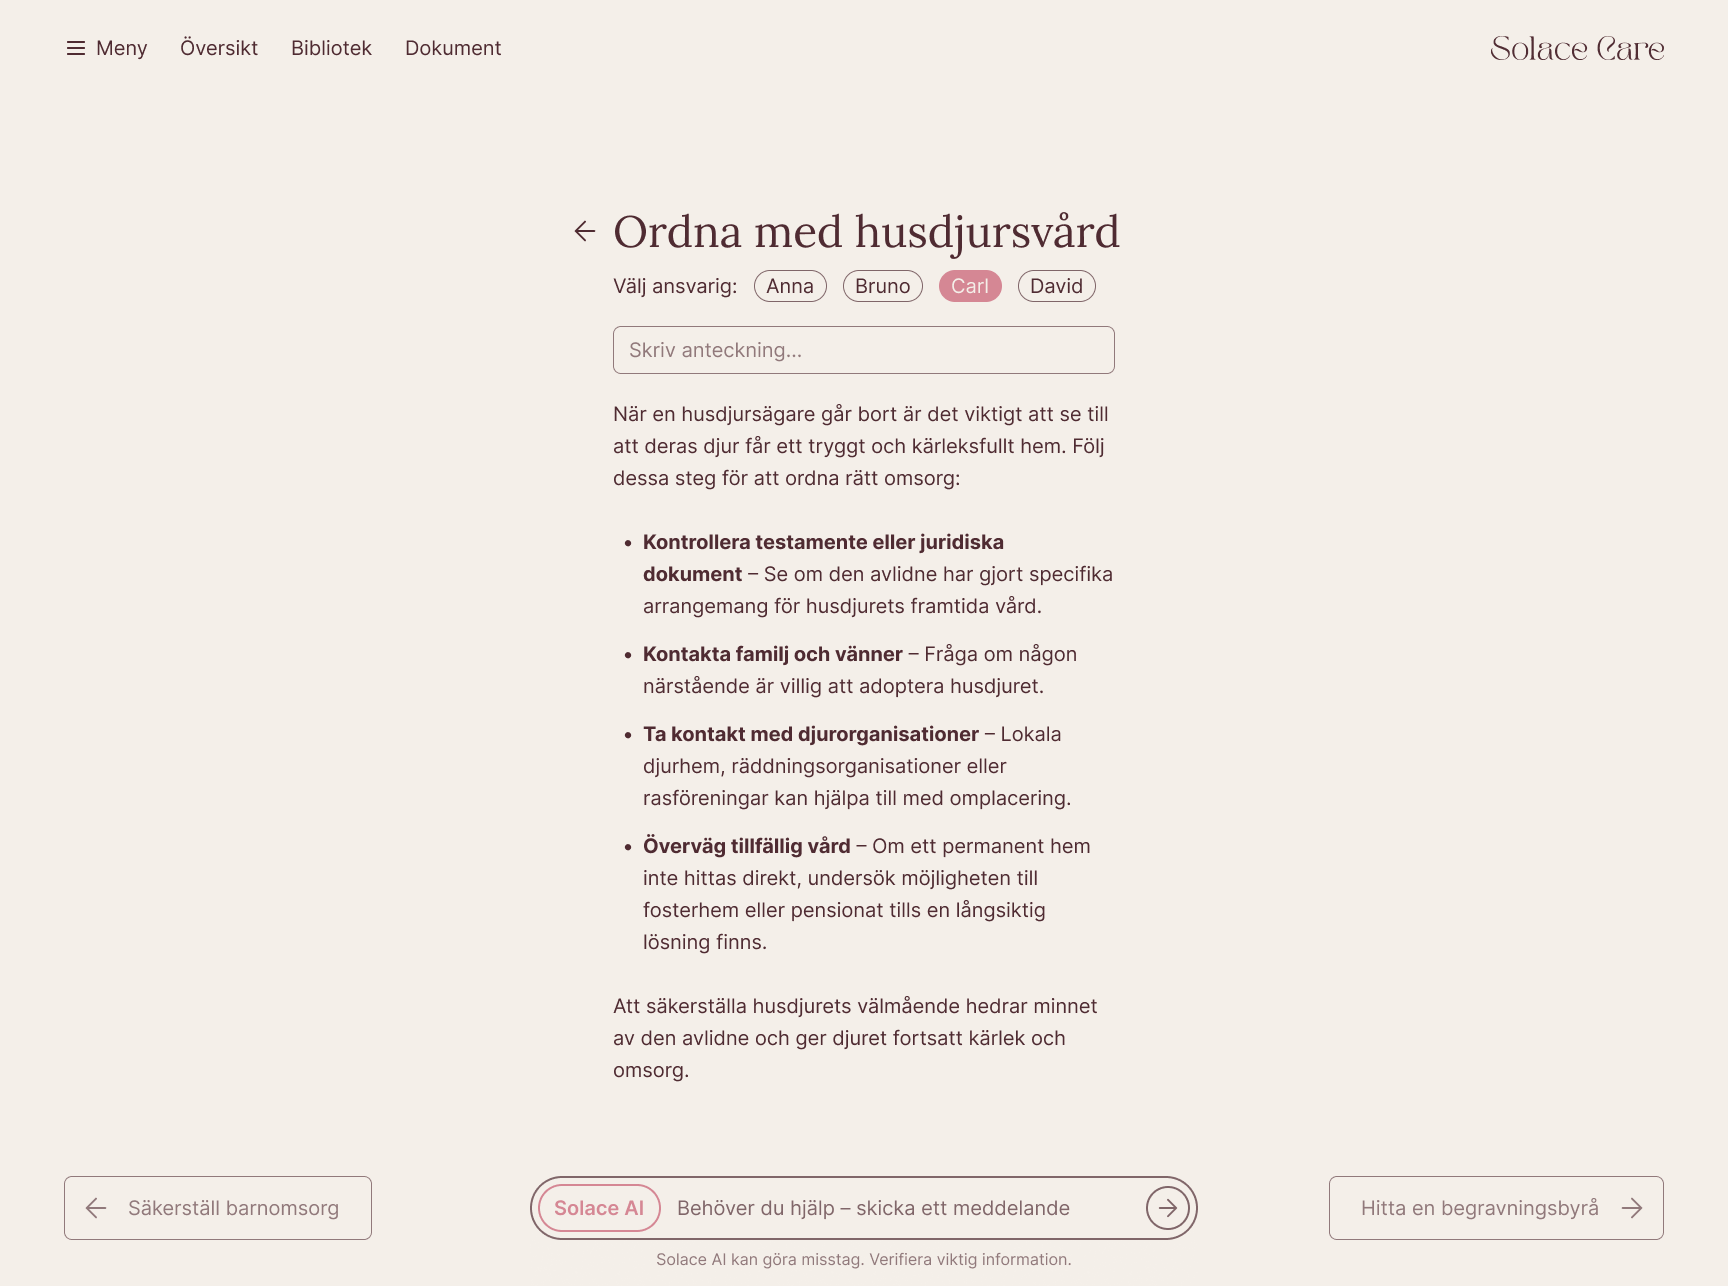
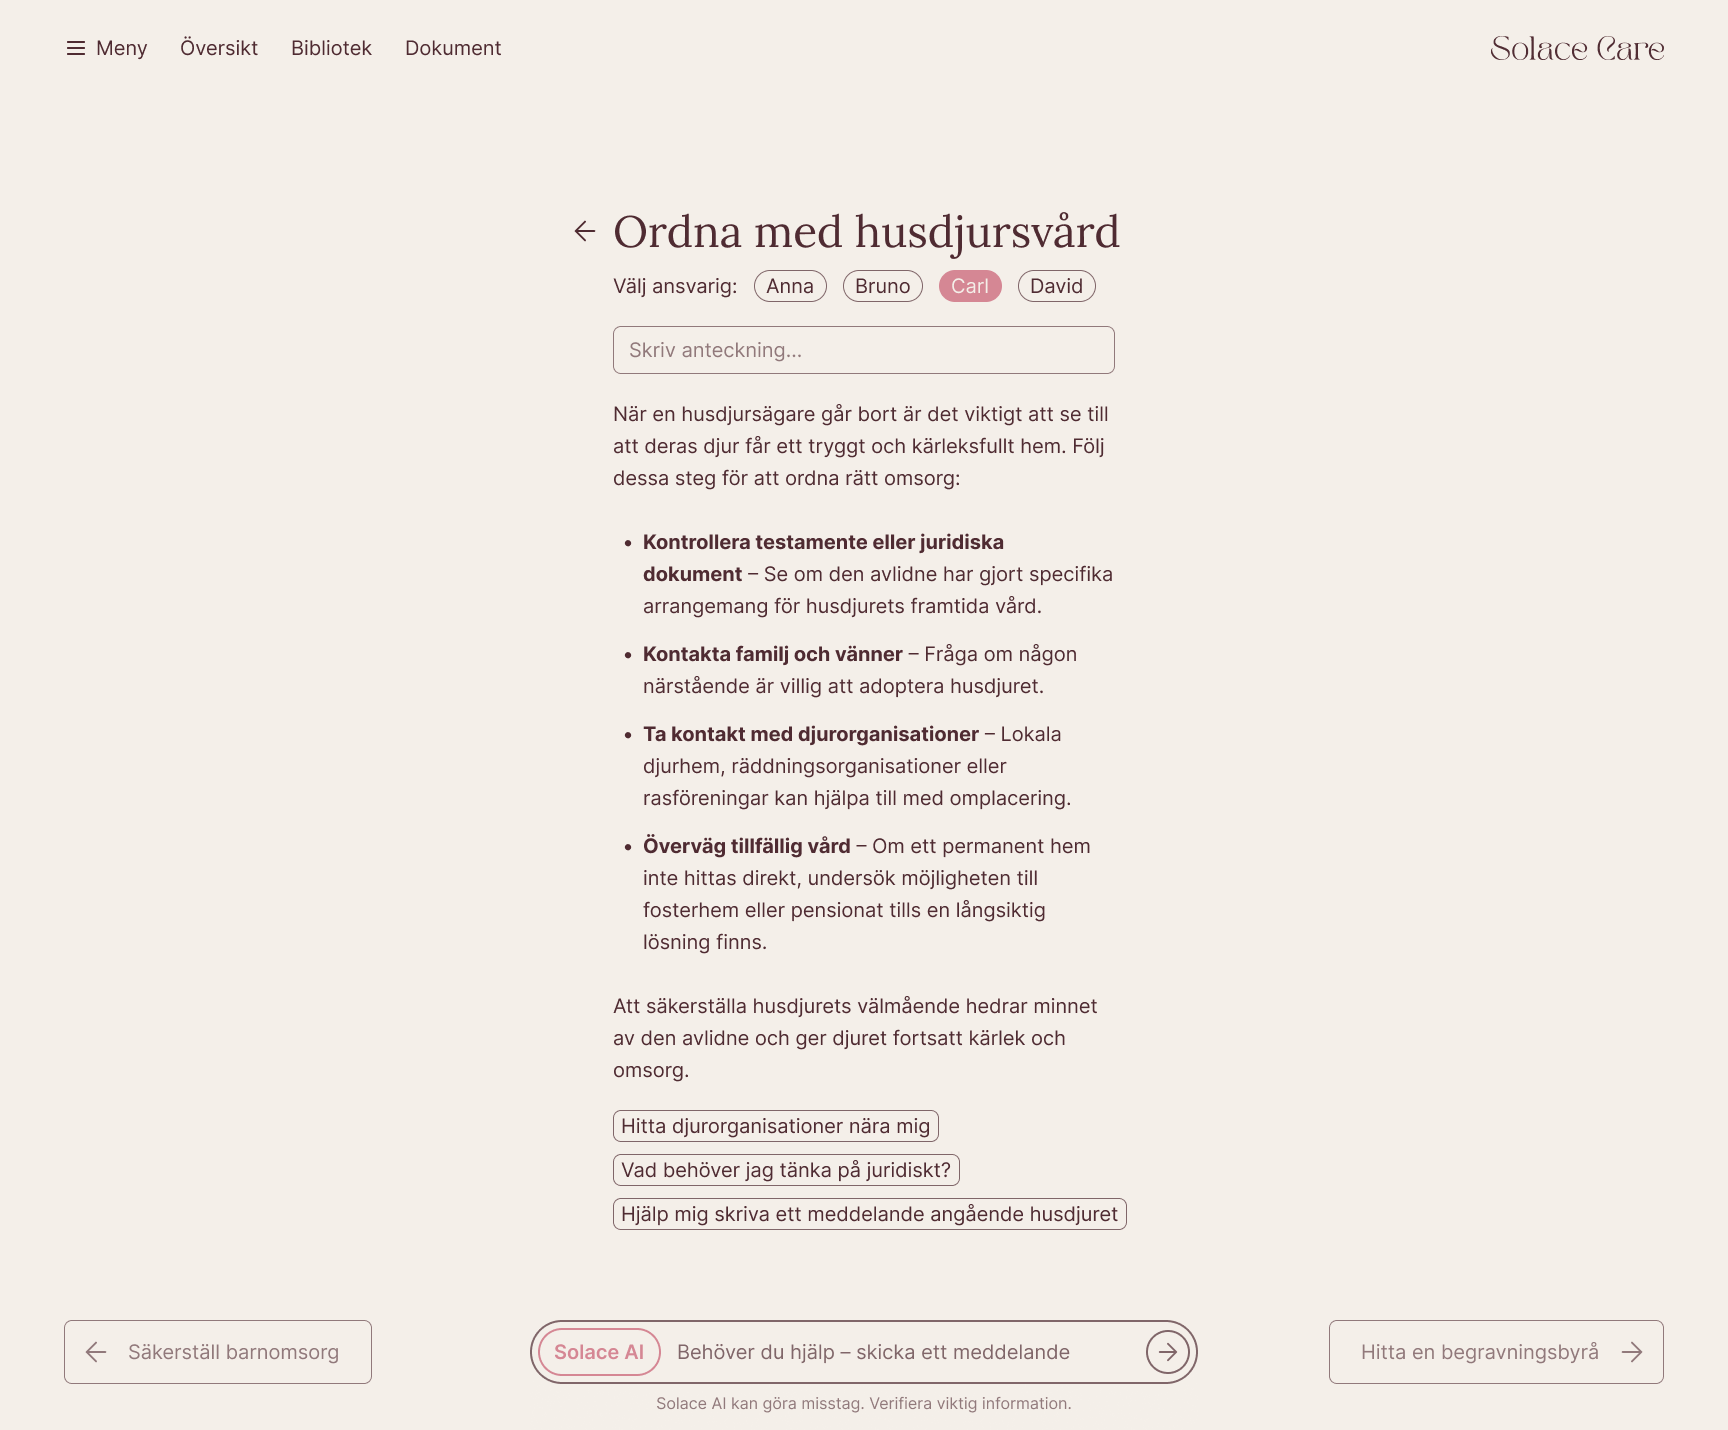
Solace care content update

diff --git a/solace-care.html b/solace-care.html
@@ -67,22 +67,30 @@
 			<p>
 				Solace Care is a planning and coordination tool for people who
 				have recently lost someone. This redesign focuses on reducing
-				mental effort, integrating AI more deeply, and making shared
-				planning easier.
+				cognitive load, integrating AI more deeply into the task flow,
+				and making shared planning easier.
 			</p>
 
-			<div class="image-frame">
-				<img
-					src="images/solace-care/original-solace-care-checklist.png"
-					alt="Original Solace Care checklist showing task list grouped by the time period 'Under de första veckorna' and category filters"
-					loading="lazy"
-					width="2560"
-					height="1492" />
-			</div>
-			<small class="image-description">
-				Original checklist layout with time-based task grouping and
-				category filters.
-			</small>
+			<h2>Opportunities for improvement</h2>
+			<ul>
+				<li>
+					The original interface tries to do too much at once. The home
+					page presents task cards, AI entry points, and support content
+					side by side, forcing users to orient themselves before they can
+					act. For someone in the early days of grief, this kind of
+					decision-making is unnecessarily taxing.
+				</li>
+				<li>
+					The AI assistant — a central part of the platform's value — lives
+					on its own separate page, disconnected from the tasks it's meant
+					to help with.
+
+				</li>
+				<li>
+					Collaboration is limited: co-planners have no
+					way to communicate on the platform.
+				</li>
+			</ul>
 
 			<div class="image-frame">
 				<img
@@ -93,22 +101,37 @@
 					height="1492" />
 			</div>
 			<small class="image-description">
-				Original Solace Care home page with multiple entry points for
-				support and AI assistance.
+				The original home page with competing entry points for tasks,
+				support content, and AI assistance.
 			</small>
 
-			<h2>Opportunities for improvement</h2>
-			<ul>
-				<li>
-					The original interface presents too many competing elements
-					at once, increasing cognitive load.
-				</li>
-				<li>
-					AI assistance is key to the platform, but it is separate
-					from the primary task flow.
-				</li>
-				<li>Collaboration features are very limited.</li>
-			</ul>
+			<div class="image-frame">
+				<img
+					src="images/solace-care/original-solace-care-checklist.png"
+					alt="Original Solace Care checklist showing task list grouped by the time period 'Under de första veckorna' and category filters"
+					loading="lazy"
+					width="2560"
+					height="1492" />
+			</div>
+			<small class="image-description">
+				The original checklist with time-based grouping and category
+				filters.
+			</small>
+
+			<h2>Simplified navigation</h2>
+			<p>
+				The home page was removed entirely. The checklist is now the
+				primary entry point and the first thing users see when they open
+				the app. This eliminates an entire layer of navigation and puts
+				users directly in front of their tasks.
+			</p>
+			<p>
+				The checklist keeps the original timeline structure but adds a
+				new section for the very first days after a loss, when the need
+				for low cognitive load is most important. Each time period can be 
+				expanded or collapsed, letting users focus on what's relevant 
+				without being overwhelmed by everything that comes later.
+			</p>
 
 			<div class="image-frame">
 				<img
@@ -119,46 +142,47 @@
 					height="1362" />
 			</div>
 			<small class="image-description">
-				Redesigned checklist view with expanded sections for the first
-				days and weeks after a loss.
+				The redesigned checklist with expanded sections for the first
+				days and first weeks.
 			</small>
 
-			<h2>Redesigned checklist structure</h2>
+			<h2>Collaboration</h2>
 			<p>
-				The redesigned checklist keeps the original timeline structure
-				but adds a dedicated section for the first days after a loss.
-				The home page was removed to simplify navigation and make the
-				checklist the primary entry point.
+				End-of-life planning is rarely done alone, so the redesign adds
+				a shared notes panel to each checklist item, giving co-planners
+				a place to coordinate directly within the task they're working
+				on rather than switching to a separate messaging tool 
+				without context.
+			</p>
+
+			<p>
+				Similarly to the original design, users can also assign tasks to
+				themselves or co-planners. On the Checklist page, seen above, users 
+				can choose to hide all checklist-items which are not their responsibility.
 			</p>
 
 			<div class="image-frame">
 				<img
 					src="images/solace-care/checklistitem-page.png"
-					alt="Redesigned checklist item page showing task instructions, shared notes panel, and navigation controls"
+					alt="Redesigned checklist item page showing task instructions, shared notes panel, AI chat-box, AI suggestions, and navigation controls to reach the next and previous todo-list item"
 					loading="lazy"
 					width="1728"
-					height="1286" />
+					height="1430" />
 			</div>
 			<small class="image-description">
-				Checklist item layout combining task guidance, shared notes, and
-				in-context AI assistance.
+				A checklist item with task guidance, shared notes, and
+				AI assistance in a single view.
 			</small>
 
-			<h2>Collaboration and AI integration</h2>
+			<h2>AI integration</h2>
 			<p>
-				A shared notes panel was added to each checklist item to enable
-				in-context collaboration. This allows co-planners to communicate
-				directly within tasks instead of relying on external tools.
-			</p>
-			<p>
-				The AI assistant is now available as a persistent chat panel
-				across all pages. This replaces the previous separate view and
-				floating action button, enabling context-aware support inside
-				the active workspace.
-			</p>
-			<p>
-				The AI assistant was extended to reference not only articles and
-				checklist items, but also user-uploaded documents.
+				In the original design, the AI assistant lived on its own page,
+				separate from the tasks and content it was meant to support. The
+				first step was to bring it into the task flow: a persistent chat
+				panel now appears across all pages which is able to respond directly 
+				to the context the user is viewing. The assistant can reference checklist
+				items, support articles, and documents uploaded by the user or
+				their co-planners.
 			</p>
 
 			<div class="image-frame">
@@ -170,15 +194,25 @@
 					height="2196" />
 			</div>
 			<small class="image-description"
-				>Example of the AI assistant responding directly inside an
-				active checklist task.
+				>The AI assistant responding directly inside an active task.
 			</small>
 
-			<h2>Reducing cognitive load</h2>
 			<p>
-				The interface was simplified to focus on what users need most.
-				Unnecessary elements were removed to reduce distraction and make
-				the experience easier to navigate.
+				But a chat bar still puts the burden on the user to know what to
+				ask. For someone navigating grief, that blank input field is its
+				own form of cognitive load. The next step was to add contextual
+				action buttons at the end of each task. Structured prompts like
+				"Vad behöver jag tänka på juridiskt?" guide the user towards the 
+				most useful actions without requiring the user to formulate them. 
+				The chat remains available, but the buttons make the AI's capabilities
+				visible and accessible where they're most relevant.
+			</p>
+
+			<h2>Support content and documents</h2>
+			<p>
+				The library view organizes support content such as articles, 
+				guides, and recommended reading into browsable categories with an
+				newly added search feature.
 			</p>
 
 			<div class="image-frame">
@@ -190,16 +224,15 @@
 					height="1332" />
 			</div>
 			<small class="image-description">
-				Library view organizing support content, recommended reading,
-				and a new search feature.
+				The library view with categorized support content and search.
 			</small>
 
-			<h2>Document management</h2>
 			<p>
-				A dedicated documents page was added to provide an overview of
-				important files. Previously, users had to navigate to a
-				different area of the site to access documents uploaded by
-				co-planners or the deceased.
+				A dedicated documents page was added to give users an overview
+				of important files in one place. In the original design,
+				documents uploaded by co-planners or belonging to the deceased
+				were located in an area of the site which was difficult 
+				to discover and navigate to.
 			</p>
 
 			<div class="image-frame">
@@ -211,7 +244,7 @@
 					height="1587" />
 			</div>
 			<small class="image-description">
-				Documents overview with categorized files.
+				The documents overview with categorized files.
 			</small>
 
 			<p>
